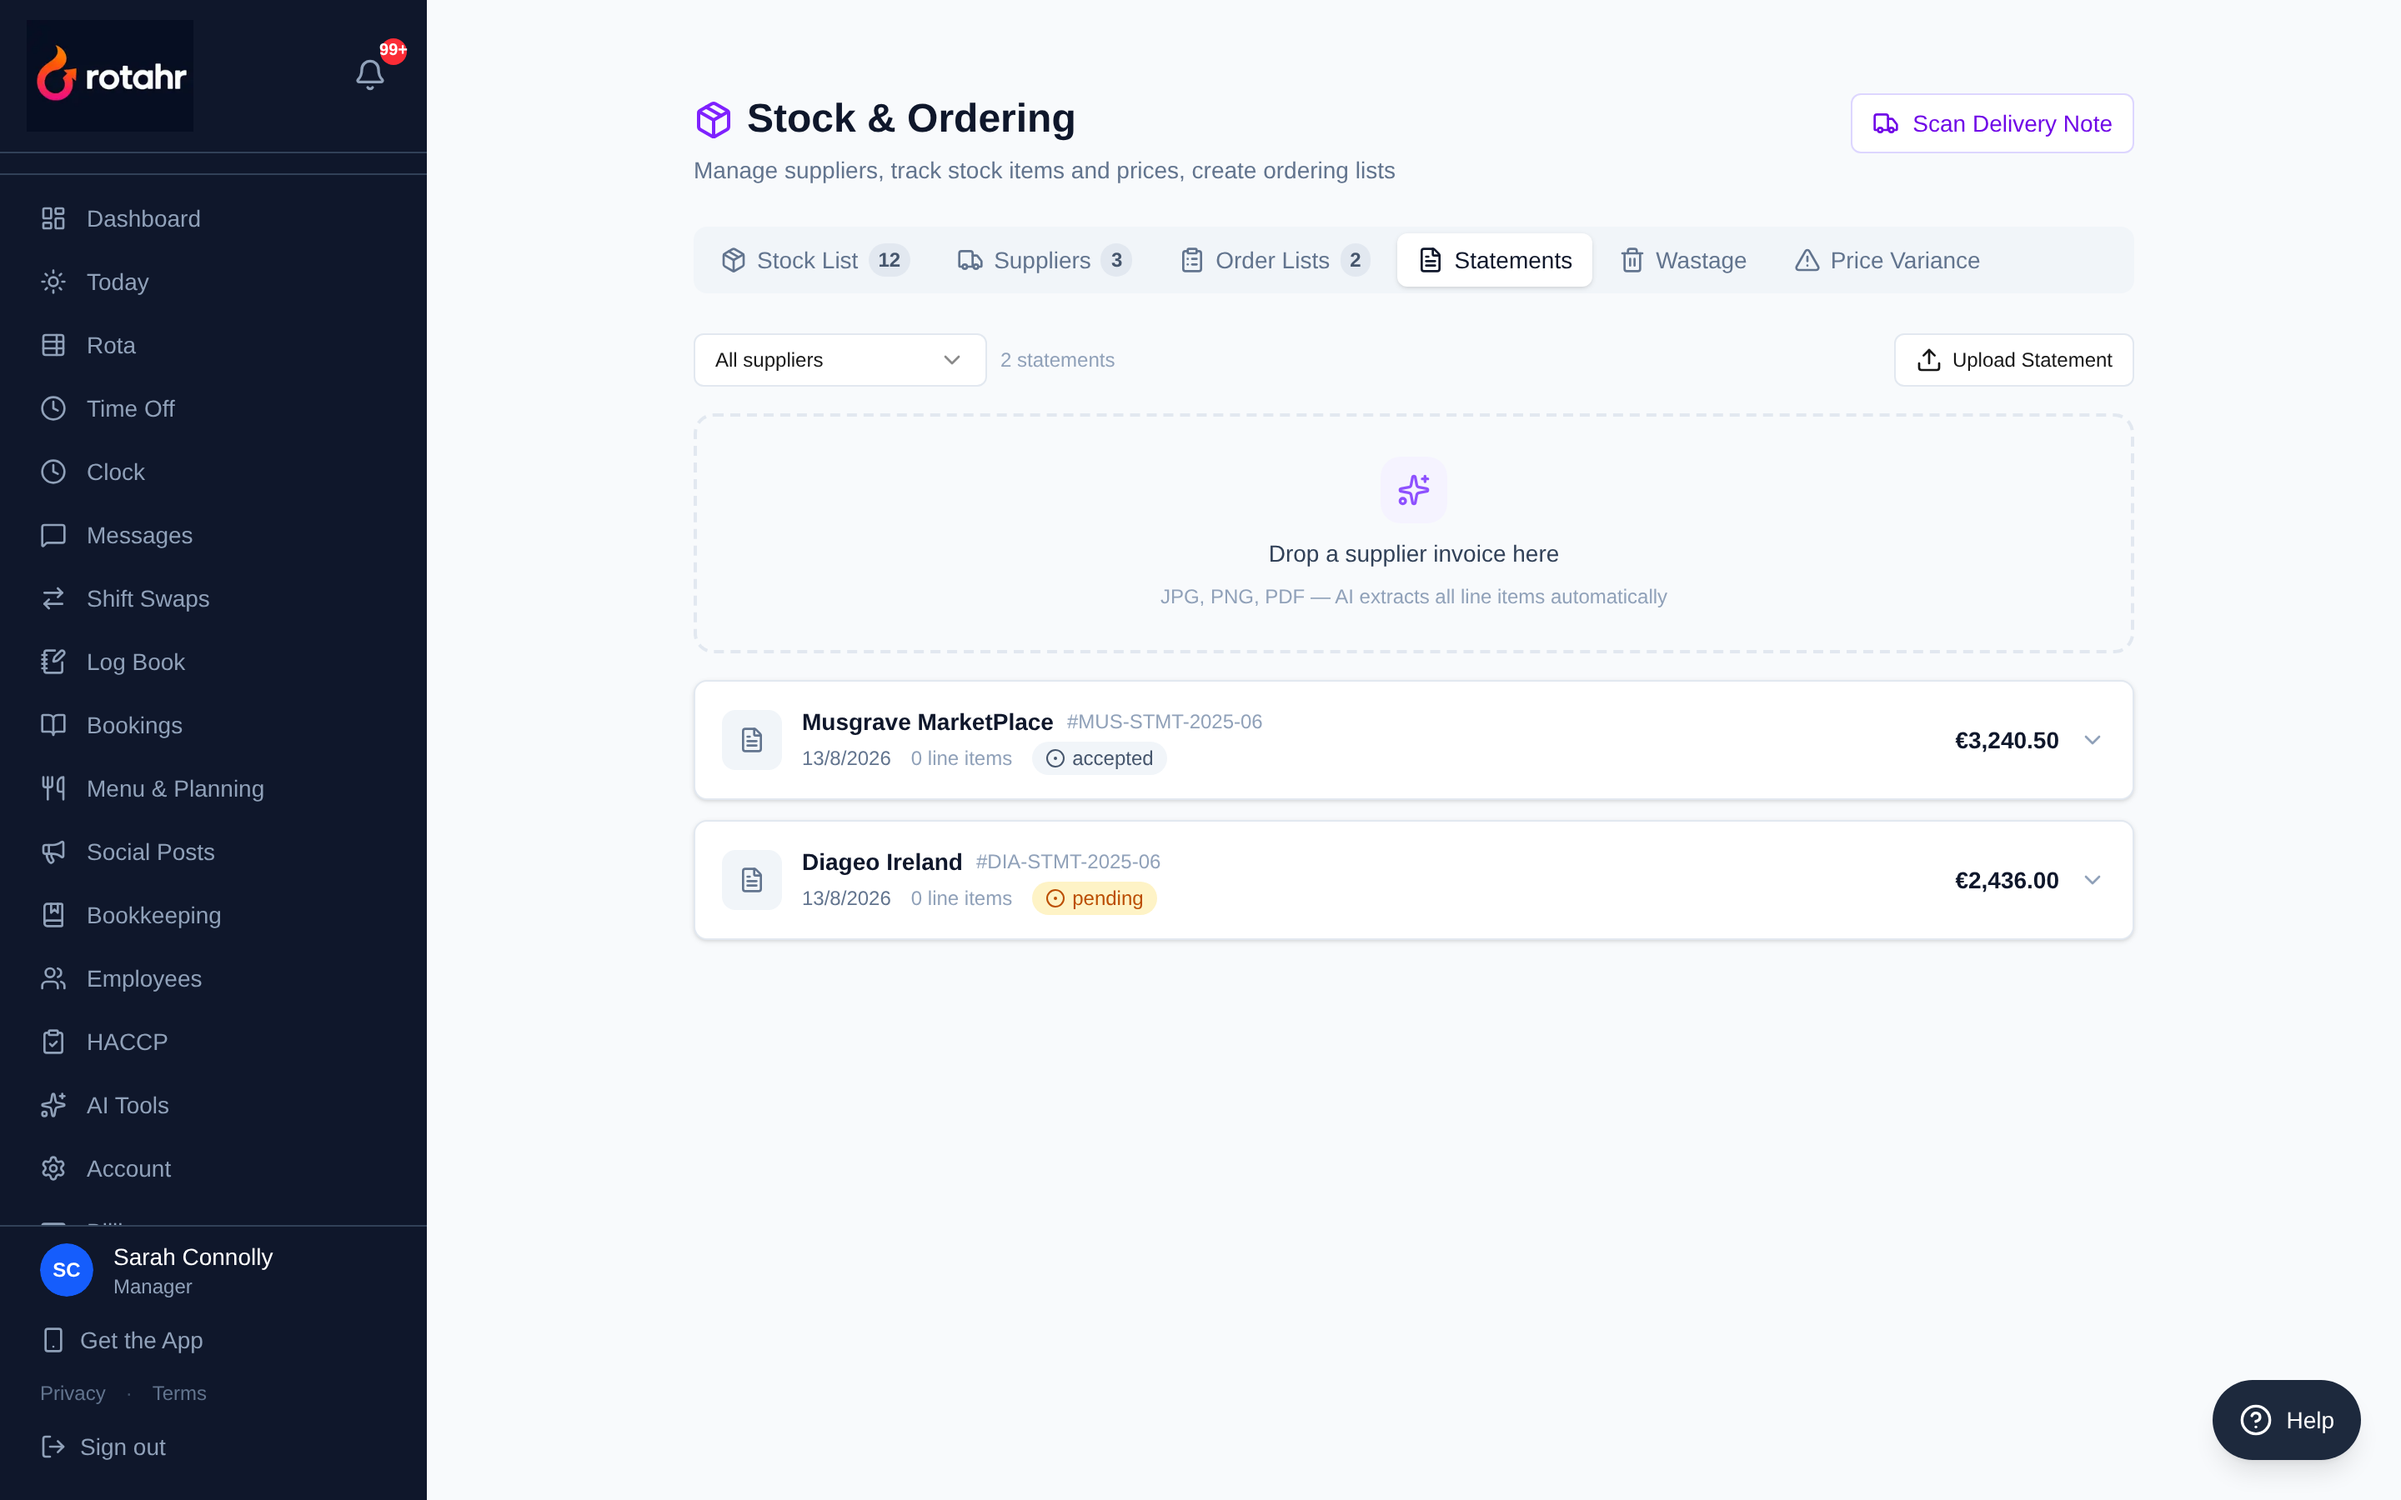
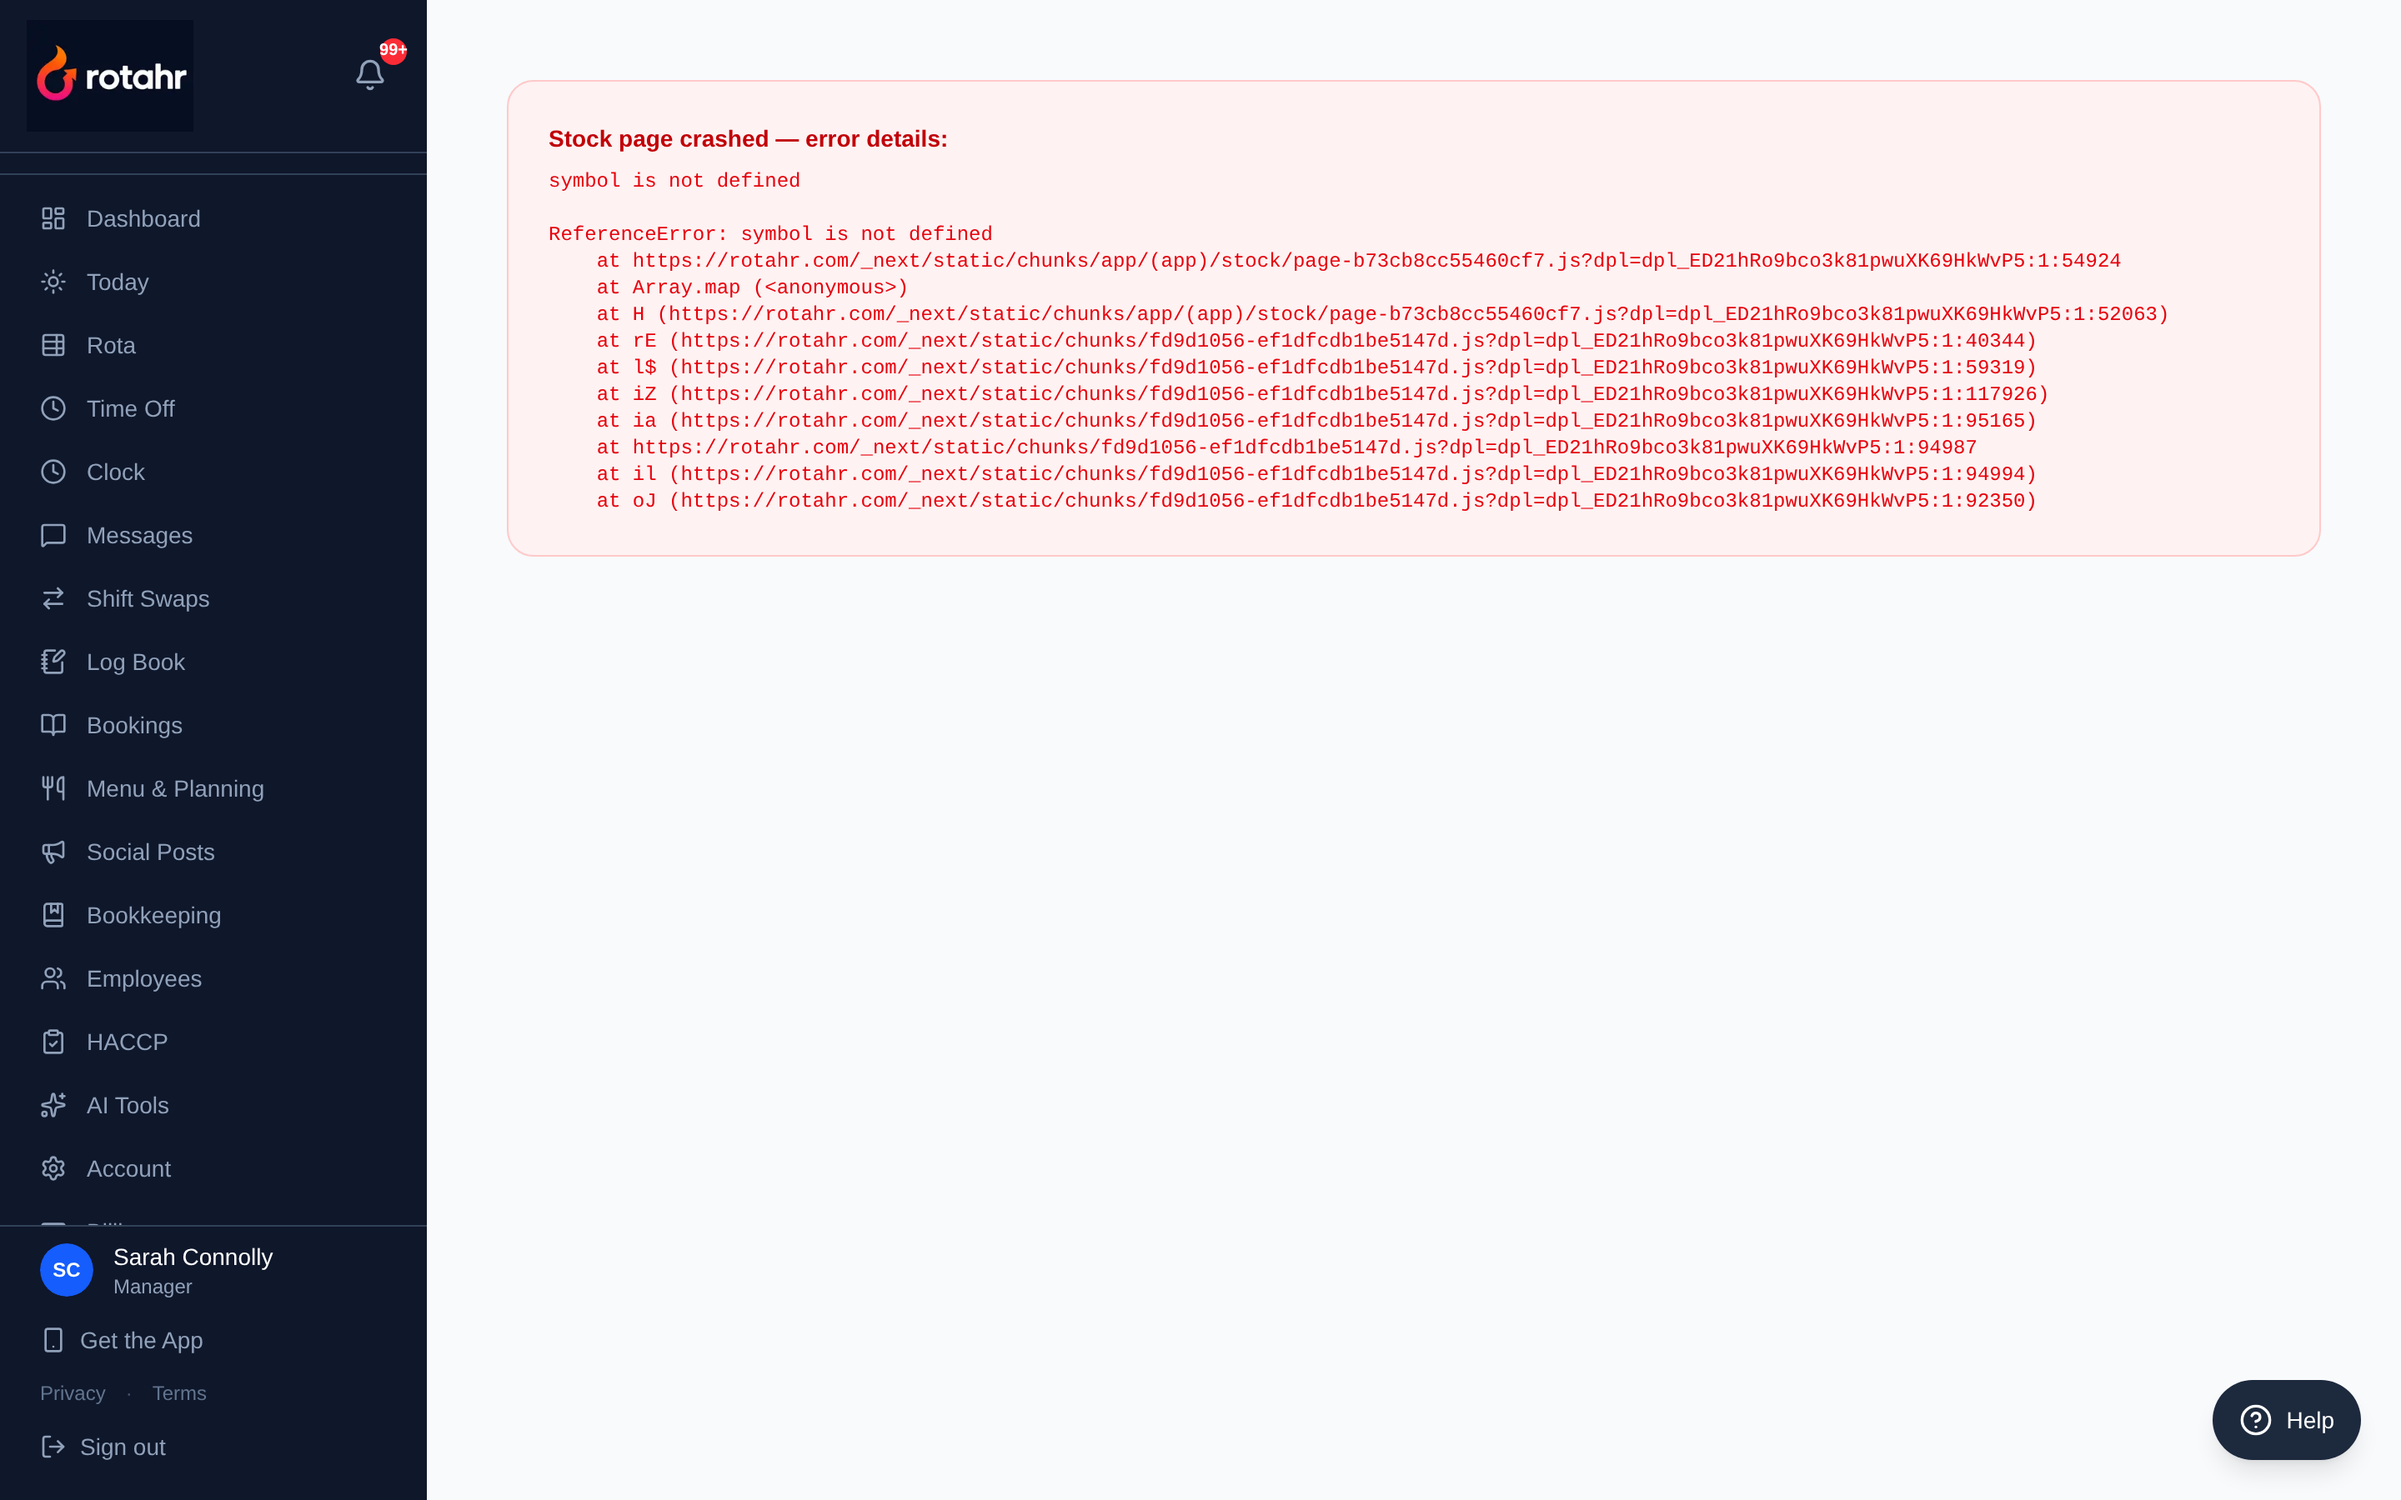
Fix second Stock crash and remove @ts-nocheck from the file
My own previous commit moved the crash rather than fixing it: the "Unit"
column header I converted to the live currency symbol is in
SupplierStatementsTab, not the scan dialog I bound the symbol in, so the
Statements tab then died with "symbol is not defined". Bound where it is
actually used.

Both crashes were invisible to the compiler because the file opened with
@ts-nocheck. Removed it. That surfaced one real defect: the order edit path
read item.customName, which no OrderItem ever carries — POST /api/orders
resolves a typed-in name to a stock item before saving. Dropped the dead
read and documented why.

tsc --noEmit is now clean across the project, so this class of runtime
ReferenceError cannot ship from this file again.

diff --git a/app/(app)/stock/page.tsx b/app/(app)/stock/page.tsx
@@ -1,4 +1,3 @@
-// @ts-nocheck
 "use client";
 
 import { useState, useEffect, useCallback, useRef, Component } from "react";
@@ -593,7 +592,10 @@ function OrderBuilderDialog({
       setNotes(editOrder.notes ?? "");
       setLines(editOrder.items.map((item) => ({
         stockItemId: item.stockItemId ?? undefined,
-        customName: item.customName ?? undefined,
+        // No customName here on purpose: POST /api/orders resolves a typed-in
+        // name to a real stock item (creating one if needed) before saving, so a
+        // stored line always has stockItemId and never a customName. Reading one
+        // back was dead code that only compiled because of @ts-nocheck.
         unit: item.stockItem?.unit ?? "unit",
         quantity: String(item.quantity),
         unitPrice: item.unitPrice != null ? String(item.unitPrice) : "",
@@ -1602,6 +1604,7 @@ function SupplierStatementsTab({
   suppliers: Supplier[]; stockItems: StockItem[];
   fmt: (n: number | null | undefined) => string;
 }) {
+  const { symbol } = useCurrency();
   const fileRef = useRef<HTMLInputElement>(null);
   const [statements, setStatements] = useState<SupplierStatement[]>([]);
   const [loading, setLoading] = useState(true);
